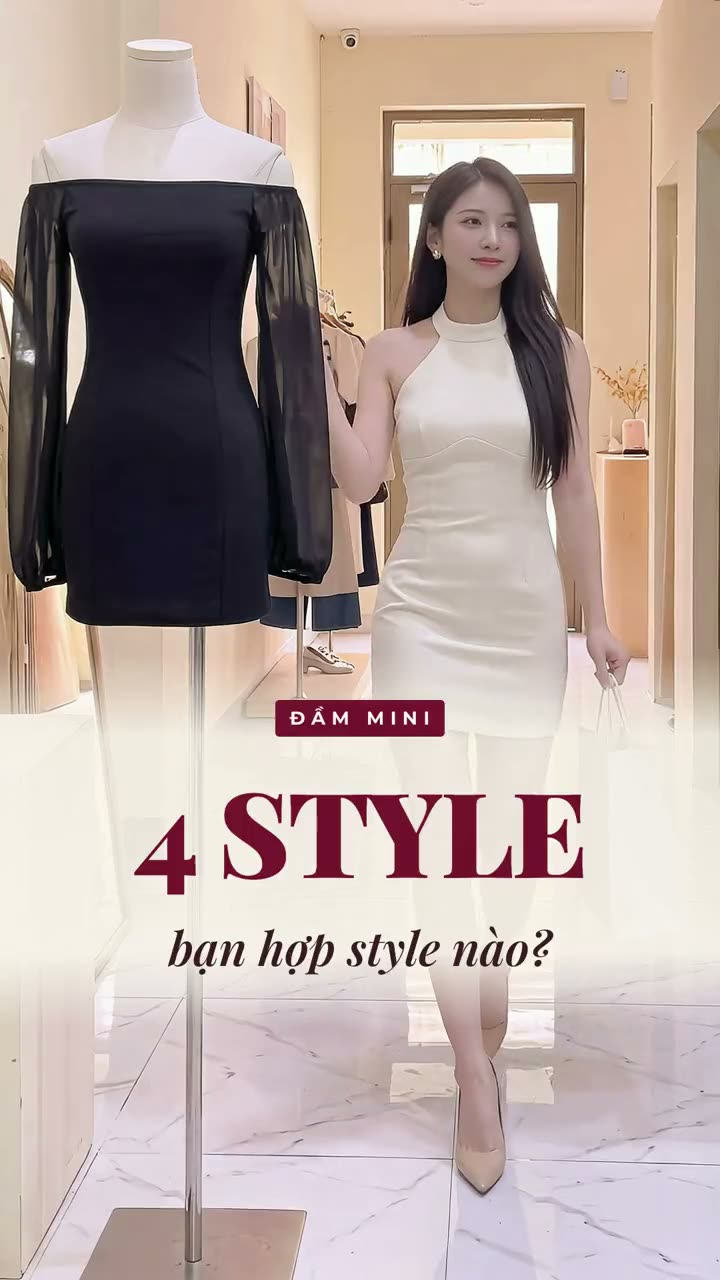
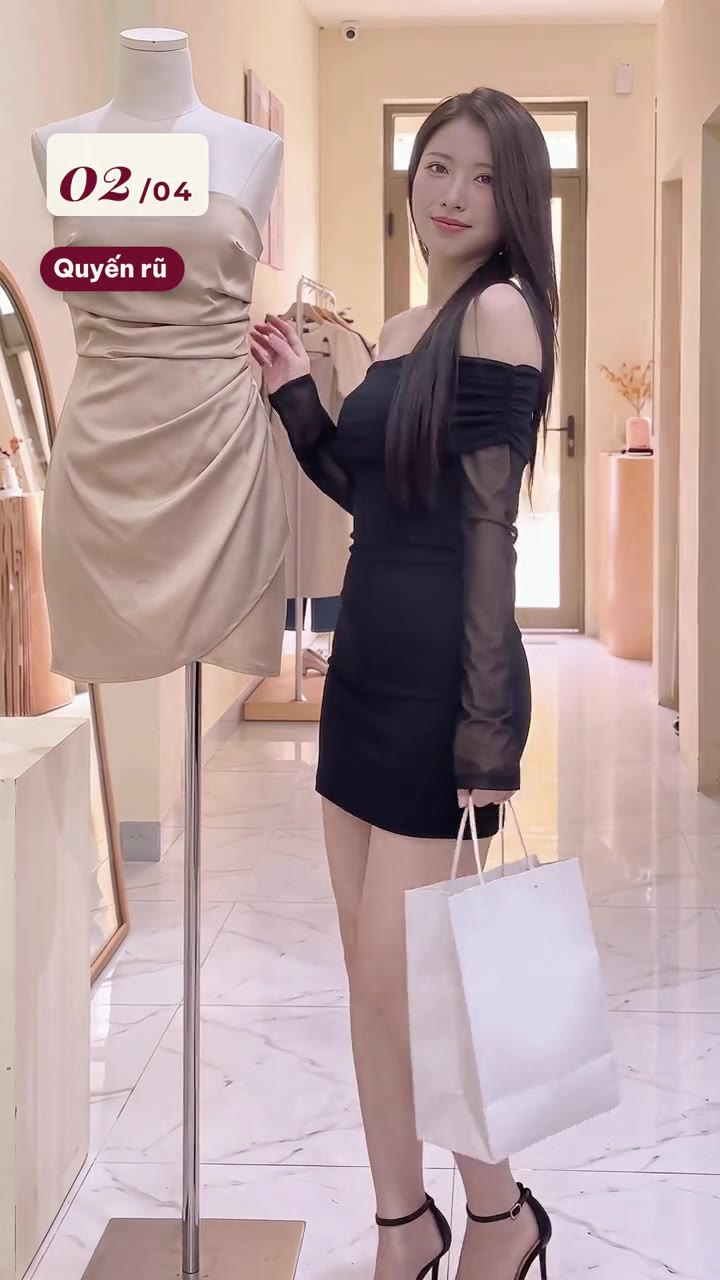
Thêm số liệu chi phí tuyển sinh và đổi ảnh bìa video 4 chiếc váy

diff --git a/index.html b/index.html
@@ -395,12 +395,13 @@ svg.i{width:22px;height:22px;stroke:currentColor;fill:none;stroke-width:1.8;stro
         <p class="problem">Bán một quyết định lớn cho người Việt ở Nhật, Hàn, Đài Loan và trong nước. Khách cân nhắc lâu, lo giấy tờ, chỉ chốt khi tin người tư vấn.</p>
         <div class="flow"><span>Facebook, TikTok, Zalo Ads</span><b>›</b><span>Inbox, Zalo OA</span><b>›</b><span>Tư vấn chốt</span><b>›</b><span>Zalo OA, email chăm sóc</span></div>
         <ul>
-          <li>Quảng cáo Facebook, TikTok, Zalo; tách chiến dịch theo 4 thị trường, chốt qua inbox và Zalo OA.</li>
+          <li>Quảng cáo Facebook, TikTok, Zalo; tách chiến dịch theo 4 thị trường, chốt qua inbox và Zalo OA. Đọc chi phí riêng từng thị trường: Đài Loan 12.400đ mỗi tin nhắn, rẻ hơn trong nước 3,5 lần; Nhật Bản đắt gấp khoảng 15 lần ba thị trường còn lại.</li>
+          <li>Tuyển giáo viên tiếng Trung, Hàn, Nhật cho các cơ sở của công ty: 163 tin nhắn và lead, khoảng 68.000đ mỗi kết quả.</li>
           <li>Tự làm creative: ảnh AI gương mặt người Việt và dựng video quảng cáo. Dữ liệu cho thấy thiếu nhận diện trường (đồng phục, logo, văn bằng) là quảng cáo kém hẳn, nên đưa thành chuẩn bắt buộc.</li>
           <li>Quản trị Zalo OA, gửi email hàng loạt chăm sóc học viên và giữ liên hệ sau xuất cảnh; Facebook Group, seeding bình luận.</li>
           <li>Xác minh tích xanh cho fanpage; hợp đồng song ngữ với đối tác Nhật, Hàn; báo cáo tuyển sinh theo tuần, tự tổng hợp tháng, năm.</li>
         </ul>
-        <p class="out"><b>đầu ra</b>Chiến dịch 4 thị trường trên 3 nền tảng quảng cáo chạy song song, chăm sóc khách qua Zalo OA và email, báo cáo chung một hệ thống.</p>
+        <p class="out"><b>đầu ra</b>432 cuộc hội thoại Messenger cho tuyển sinh HUTECH trong 4 tháng gần nhất, trung bình khoảng 54.000đ mỗi cuộc. Chiến dịch 4 thị trường trên 3 nền tảng quảng cáo chạy song song, chăm sóc khách qua Zalo OA và email, báo cáo chung một hệ thống.</p>
       </article>
 
       <article class="case">

diff --git a/tac-pham/index.html b/tac-pham/index.html
@@ -309,7 +309,7 @@ p{margin:0}
       </article>
 
       <article class="reel">
-        <button class="thumb" type="button" data-video="media/v/4-chiec-vay.mp4" data-title="4 chiếc váy, bạn chọn số mấy?" aria-label="Xem video: 4 chiếc váy"><img src="media/p/4-chiec-vay.jpg" width="720" height="1280" loading="lazy" alt="Người mẫu đầm trắng cạnh manocanh đầm đen, chữ Đầm mini 4 style, bạn hợp style nào?"><span class="play"><svg viewBox="0 0 16 16"><path d="M3 1.5v13L14 8z"/></svg></span><span class="dur">0:18</span></button>
+        <button class="thumb" type="button" data-video="media/v/4-chiec-vay.mp4" data-title="4 chiếc váy, bạn chọn số mấy?" aria-label="Xem video: 4 chiếc váy"><img src="media/p/4-chiec-vay.jpg" width="720" height="1280" loading="lazy" alt="Người mẫu váy đen cạnh manocanh váy be, nhãn 02/04 Quyến rũ"><span class="play"><svg viewBox="0 0 16 16"><path d="M3 1.5v13L14 8z"/></svg></span><span class="dur">0:18</span></button>
         <div class="meta"><span class="ind t-tt">thời trang nữ</span></div>
         <h3>4 chiếc váy, bạn chọn số mấy?</h3>
         <p>Bốn phong cách tiểu thư, quyến rũ, sang trọng, dịu dàng, kết bằng bảng 4 lựa chọn kéo bình luận. Bản này không có tiếng.</p>
